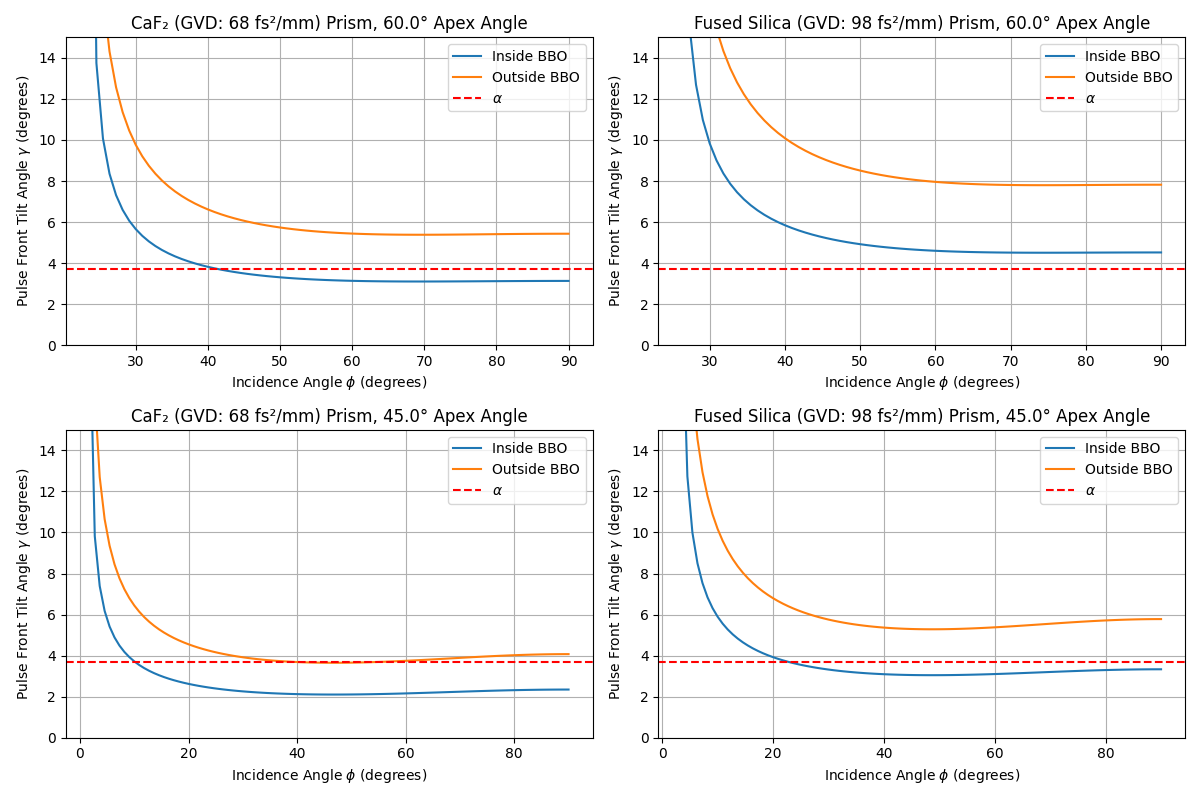
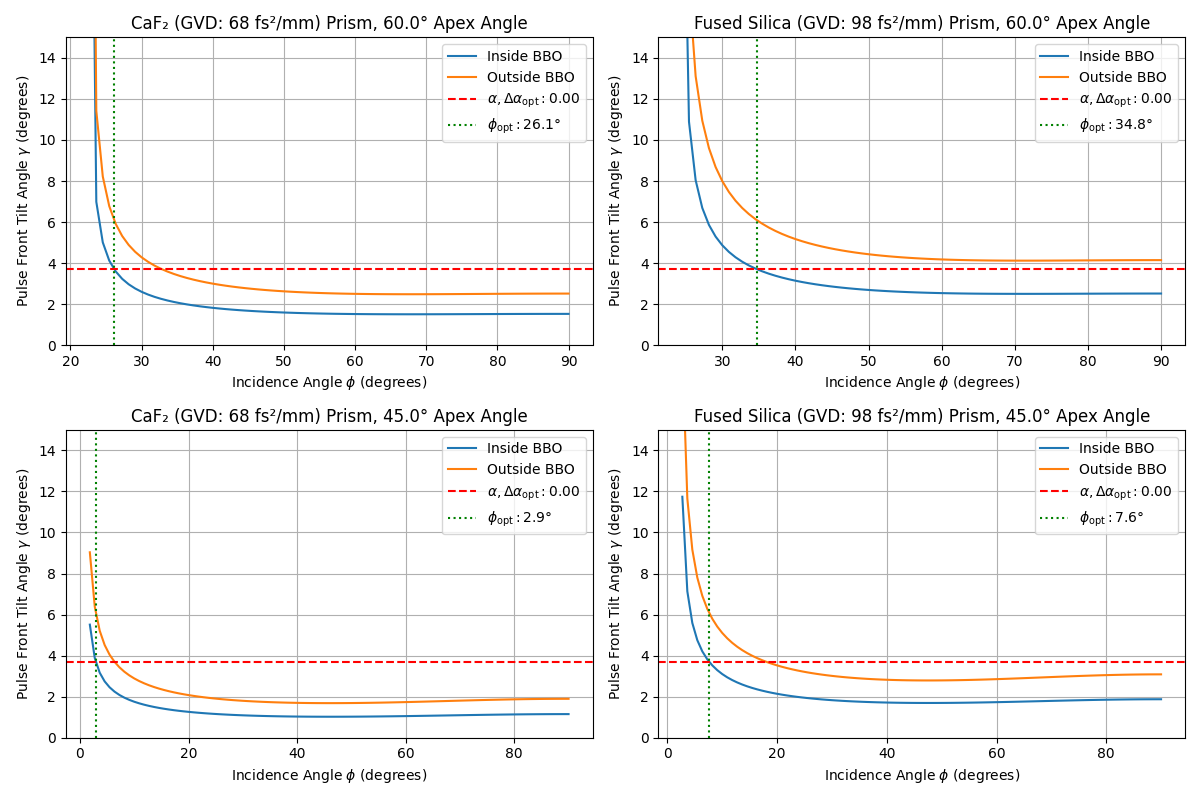
small script changes

diff --git a/phase_matching/scripts/pulse_front_tilt_geometry_plot.py b/phase_matching/scripts/pulse_front_tilt_geometry_plot.py
@@ -6,10 +6,10 @@ from scipy.optimize import minimize_scalar
 
 
 # Parameters
-theta_apex = np.radians(60) # apex angle of the prism in radians
+theta_apex = np.radians(45) # apex angle of the prism in radians
 lmd_p = 800 # pump wavelength in nm
-f1_telescope = 300e-3 # focal length of first telescope lens in m
-f2_telescope = 30e-3 # focal length of second telescope lens in m
+f1_telescope = 200e-3 # focal length of first telescope lens in m
+f2_telescope = 50e-3 # focal length of second telescope lens in m
 alpha_target = np.radians(3.7)  # target pulse front tilt angle in radians
 theta = np.radians(31.2) # critical phase matching angle in radians
 def get_rotation_matrix(angle):

diff --git a/phase_matching/scripts/pulse_front_tilt_plots.py b/phase_matching/scripts/pulse_front_tilt_plots.py
@@ -13,12 +13,12 @@ theta = np.radians(31.2) # critical phase matching angle in radians
 # Prism parameters
 theta_apex = np.radians(60) # apex angle of the prism in radians
 lmd_p = 800 # pump wavelength in nm
-f1_telescope = 300e-3 # focal length of first telescope lens in m
-f2_telescope = 30e-3 # focal length of second telescope lens in m
+f1_telescope = 200e-3 # focal length of first telescope lens in m
+f2_telescope = 50e-3 # focal length of second telescope lens in m
 
 # plot parameters
 phi_range = (0, np.pi/2)
-apex_angles = [60, 45, 40] # apex angles to consider, degrees
+apex_angles = [60, 45] # apex angles to consider, degrees
 
 
 if __name__ == "__main__":
